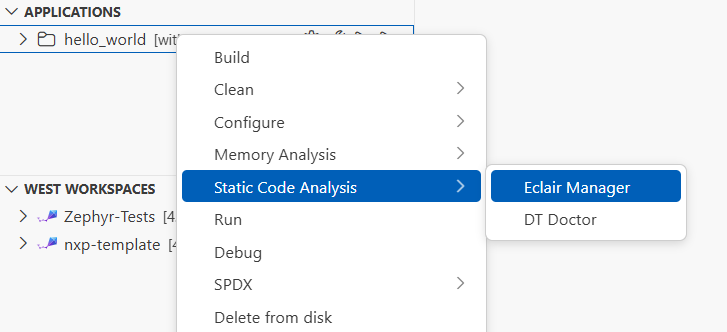
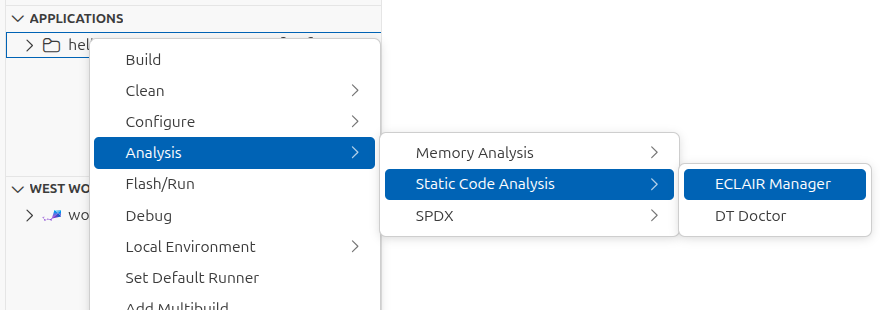
update ECLAIR Manager docs

diff --git a/docs/documentation/static-code-analysis/eclair-manager.md b/docs/documentation/static-code-analysis/eclair-manager.md
@@ -1,20 +1,124 @@
 ---
 sidebar_position: 1
 ---
-# Eclair Manager
+# ECLAIR Manager
 
 Bugseng ECLAIR is a certified static analysis tool for software verification, focused on MISRA and BARR-C compliance, software metrics, and the automatic detection of critical software errors.
-To display the application Eclair Manager, right-click on the application > Static Code Analysis > Eclair Manager.
+To display the application ECLAIR Manager, right-click on the application Analysis > Static Code Analysis > ECLAIR Manager or use the `ECLAIR Manager` command in the Command Palette.
 
-![Eclair Manager menu](/img/zw/static-code-analysis/eclair-manager/eclair-manager.png)
+![ECLAIR Manager menu](/img/zw/static-code-analysis/eclair-manager/eclair-manager.png)
 
-# Overview
+## Overview
 
-![Eclair Manager overview](/img/zw/static-code-analysis/eclair-manager/eclair-overview.png)
 
+You will be presented with the _ECLAIR Manager_ view, showing:
+- **ECLAIR** detection **status and management**
+- **Context selection**: project and build configuration
+- [**Configuration selection**](#creating-a-configuration)
+- [**Analysis**](#running-the-analysis) section: containing a button to start the analysis
+- [**Report viewer**](#browsing-the-reports) section: that allows to start the ECLAIR report viewer
+
+To get started, you will have to:
+- configure the path to the ECLAIR `bin` directory so that it is correctly detected by the extension
+- select the context (project and build configuration) to analyze
+- create a configuration for the analysis, or select an existing one
+- run the analysis and view the reports in the browser
+
+![ECLAIR Manager overview](/img/zw/static-code-analysis/eclair-manager/eclair-overview.png)
+
+## Creating a configuration
+
+Once you have selected the application and the build configuration to use, you will be able to create a configuration for the analysis using the <kbd>+</kbd> button.
+![New ECLAIR configuration](/img/zw/static-code-analysis/eclair-manager/new-config.png)
+
+After creating the configuration, you can select the kind of configuration you want to use.  
+There are currently three kinds of configuration available:
+- [**preset**](#using-presets): choosing from a variety of presets from repositories or local files
+- [**custom-ecl**](#using-custom-ecl-files): using a custom ECL file
+- [**zephyr-ruleset**](#using-a-zephyr-ruleset): using ruleset provided by the ECLAIR integration in the Zephyr project
+
+> 🛈 The configurations can be saved with the "Save" button. They will be store in the `.vscode/zephyr-workbench.eclair.json` file of each workspace. You can safely track this file in your versioning system.
+
+![Main analysis configuration kind](/img/zw/static-code-analysis/eclair-manager/main-analysis-configuration-kind.png)
+
+### Using presets
+
+Presets are special ECLAIR Configuration Files (`.ecl`) with additional metadata that allows them to be displayed in a user-friendly way in the extension and expose additional configuration options.
+
+Presets can either be provided by a repository or be local files.
+
+#### Preset repositories
+
+Preset repositories are normal git repository that contains special `.ecl` files, which are recognized and showed in the UI.
+
+The reference repository for preset is the one provided by Bugseng[^bugseng-preset-repo], which is available by default and contains, along with a variety of curated presets, the specification of the preset format.
+
+![alt text](/img/zw/static-code-analysis/eclair-manager/repo-manager.png)
+
+You can create or fork a preset repository to add your own presets so that they can easily be reused across projects or your organization by providing:
+- a name to identify the repository in the UI
+- the URL of the repository
+- the branch or tag to use
+- (optionally) the hash of the commit to use, to accurately pinpoint the version of the presets to use
+
+For each repository, several actions are available. In particular the "Update" button will fetch the latest version of the repository at the specified branch/tag, updating the hash of the commit.
+
+> 🛈 The hash will be stored alongside the configuration in the `.vscode/zephyr-workbench.eclair.json` file, so that you can easily track any updates to the pinned version
 
 The report is displayed in the Terminal. For more information, please refer to:
 https://docs.zephyrproject.org/latest/develop/sca/eclair.html
 
-![Eclair Manager terminal](/img/zw/static-code-analysis/eclair-manager/eclair-manager-terminal.png)
+#### Selecting a preset
 
+The ECLAIR Manager classifies presets in 3 categories:
+- **ruleset**: presets that provide the list of rules to apply for the analysis
+- **variant**: providing configuration options for the analysis
+- **tailoring**: providing additional configuration options for the analysis to fine-tune the results based on the context of the project
+
+For each kind of preset you will be able to select one or more presets to apply for the analysis from the available presets in the repositories, or choosing a local file.
+
+![Preset selection](/img/zw/static-code-analysis/eclair-manager/preset-selection.png)
+
+If the preset exposes configuration options, they will appear in the UI and you will be able to set them before running the analysis.
+
+![Selected preset and options](/img/zw/static-code-analysis/eclair-manager/selected-preset-and-options.png)
+
+### Using custom ECL files
+
+If you already have ECLAIR Configuration Files (`.ecl`) that you want to use, you can select the "custom-ecl" configuration kind and choose the file to use for the analysis.
+
+![Custom ECL](/img/zw/static-code-analysis/eclair-manager/custom-ecl.png)
+
+### Using a Zephyr ruleset
+
+The Zephyr project contains several [in-tree ECLAIR rulesets](https://github.com/zephyrproject-rtos/zephyr/blob/3568e1b6d5cdd51a6b964a2a1d6d29200fea2056/cmake/sca/eclair/sca_options.cmake#L3-L15) that can be used for the analysis as described in the [Zephyr documentation](https://docs.zephyrproject.org/latest/develop/sca/eclair.html).
+
+The ECLAIR Manager allows you to easily select one of these rulesets:
+
+![Zephyr ruleset selection](/img/zw/static-code-analysis/eclair-manager/zephyr-ruleset-selection.png)
+
+## Additional Configuration `.ecl` file
+
+Independently of the kind of configuration you choose, you can also select an additional ECL file to fine-tune the configuration for the analysis. This file will be merged with the main configuration selected, allowing you to easily customize the analysis without having to create a whole new preset for that.
+
+![Additional Configuration `.ecl` file](/img/zw/static-code-analysis/eclair-manager/additional-configuration-ecl-file.png)
+
+## Running the analysis
+
+Once the configuration is ready, you can start the analysis by clicking the "Run Analysis" button in the "Analysis" section.  
+
+![Analysis section](/img/zw/static-code-analysis/eclair-manager/analysis-section.png)
+
+This will open a terminal and run the ECLAIR analysis with the selected configuration:
+
+![ECLAIR Manager terminal](/img/zw/static-code-analysis/eclair-manager/eclair-manager-terminal.png)
+
+## Browsing the reports
+
+Once the analysis is complete, you can use the "Open Report Viewer" button. This will start the ECLAIR report server (`eclair_report`) and open the browser to display the report viewer, allowing you to easily browse the results of the analysis.
+
+> 🛈 If you've also installed the ECLAIR extension which is provided alongside with the ECLAIR installation, <kbd>Ctrl + click</kbd> on a report area will show the location on an editor panel inside your VS Code session.
+
+![Report view section](/img/zw/static-code-analysis/eclair-manager/report-view-section.png)
+
+[^bugseng-preset-repo]: https://github.com/BUGSENG/zephyr-workbench-eclair-presets
